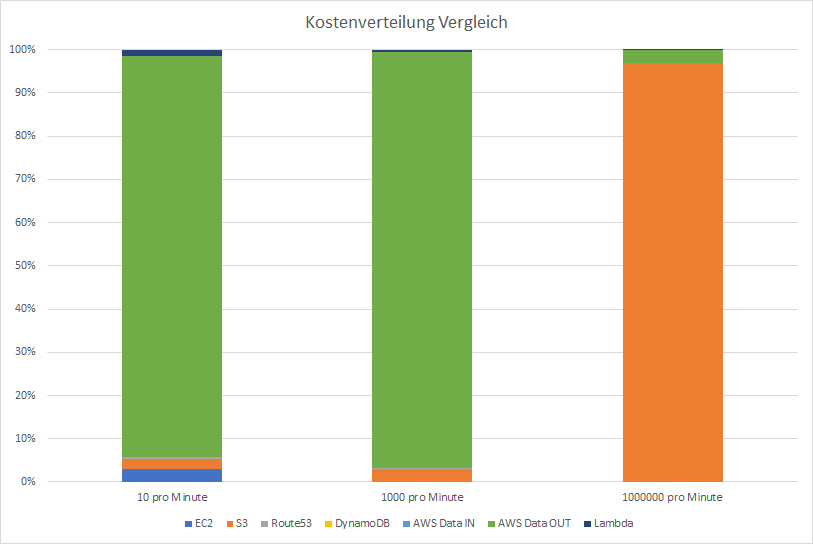
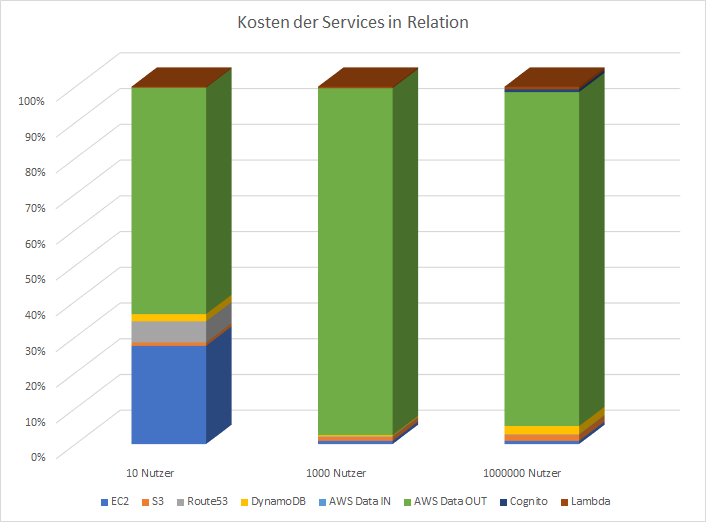
Update Docu

diff --git a/dokumentation/documentation.tex b/dokumentation/documentation.tex
@@ -97,15 +97,14 @@ Multimedia-Daten (Bilder, Audio, Video) integriert werden. Es muss dabei möglic
 sein, die Multimedia-Daten entweder herunterzuladen oder zu streamen.
 \item Die Anwendung muss horizontal skalierbar sein. (Begründung!)
 \end{enumerate}
-Zusätzlich haben wir eigene Projektanforderungen hinzugefügt:
-%todo vieleicht auch, dass es unsere Entwickler aufgaben sind. Umschreiben wieso, der Zweck wer, mehr soll
+Zusätzlich haben wir folgende eigene Projektanforderungen hinzugefügt:
 \begin{enumerate}
-\item Auslegung auf spätere Socketnutzung.
-\item Der Code liegt in einen öffentlichen Repo.
-\item Der Stack ist von jedem Deploybar. Keine statischen Variablen. Der Stack soll mit einen Befehl aufgebaut werden.
-\item Trennung von Model, View und Controller. 
-\item Die NodeJS Funktionen sollen möglichst parallel laufen, um wartende Funktionen zu vermeiden.
-\item Die EC2 Instanz speichert keine Dateien, sondern \dq schleust\dq\ sie nur durch.
+\item Die Anwendung soll auf spätere Socketnutzung ausgelegt sein.
+\item Der Code soll in einen öffentlichen Repository liegen.
+\item Der Stack ist von jedem Deploybar. Das Template des Stacks soll also nur mit variablen Namen arbeiten und der Stack soll mit einen Befehl aufgebaut werden.
+\item Der Code der Anwendung soll sauber in Model, View und Controller getrennt sein. 
+\item Die NodeJS Funktionen sollen möglichst parallel arbeiten.
+\item Der Up- und Download soll über Streams geschehen, um auf der Laufzeitumgebung keine Daten speichern zu müssen.
 \end{enumerate}
 
 \section{VirtualDesktop}
@@ -136,62 +135,25 @@ Da Desktopnamen in \textit{VirtualDesktop} global eindeutig sind, kann dieser De
 Nur dem \textit{Owner} ist es erlaubt den Desktop wieder auf privat zu setzen, auch \textit{Usern} mit Admin-Rechten für diesen Desktop ist dies nicht gestattet.
 
 \chapter{Der Weg in die Cloud}
-% todo klassiche web projekt beschreiben. probem mit max gleichzeitiger verbindungen. bild von vorlesung beschreiben. dran denken an wins. lieber kontrole abgeben mehr enwickeln. nodejs = geschätslogik
-(dadurch wird die skalierung schonmal besser)
-
-Es gibt verschiedene Wege, wie man eine Web-Applikation aufsetzt. Die ersten Schritte wird man meist auf einer lokalen Entwicklungsumgebung machen, die man auch zum späteren entwickeln braucht. Irgendwann wird man sich aber die Frage stellen, wo die spätere Infrastruktur laufen wird. \\
-Der Weg in die Cloud benötigt zu Beginn einen entscheidenden Schritt. Man muss sich für einen Cloudanbieter entscheiden. Es gibt verschiedenste Anbieter wie GoogleCloud von Google, AWS von Amazon oder Azure von Microsoft. \\
-Im Rahmen des Moduls CloudComputung an der HS-RM haben wir uns dazu entschlossen die Cloud Services von AWS - Amazon zu nutzen.
-\section{Warum geht man in die Cloud}
-asd
-\section{Anforderungen an die Skalierbarkeit}
 Unsere Projektanforderungen an die Architektur umfasst einen klassischen Aufbau eines Web Projektes mit folgenden Anforderungen. \\
 
 \begin{itemize}
-\item Eine Laufumgebung auf der NodeJS läuft.
+\item Eine Anwendungsumgebung, die die Geschäftslogik abbildet.
 \item Eine Datenbank, die auch mit vielen Zugriffen schnell bleibt.
 \item Einen Speicher, der die Daten von den Nutzern speichert.
 \item Alle Zugriffe müssen authentifiziert werden.
+\item Das System soll immer sicher sein.
 \item Skalierung soll jederzeit möglich sein, um beliebig viele Nutzer bedienen zu können.
+\item Die Kosten sollen möglichst gering sein.
 \end{itemize}
-Es wäre durchaus denkbar die ersten vier Punkte gut auf einer klassischen, nicht Cloudservice basierenden Serverumgebung umzusetzen. Aber spätestens bei der beliebigen Skalierung stößt man auf Probleme. 
+Es wäre durchaus denkbar die ersten fünf Punkte gut auf einer lokalen Serverumgebung umzusetzen. Spätestens aber bei der beliebigen Skalierung stößt man auf Probleme. 
 \\
-Die auf einer klassischen Serverumgebung einfach mögliche vertikale Skalierung stößt schnell auf ihre Grenzen. Früher oder später wird vermutlich die Datenbank in jedem System der Flaschenhals werden und diese dann horizontal zu skalieren ist meist mit großen strukturellen und/oder architektonischen Änderungen verbunden.
-
-\section{Vorteile Infrastruktur}
-%dieser satz eher am anfang. villeicht ganze kapitel.
-Eine Umsetzung in AWS bringt ein Umdenken mit sich. In AWS wird jeder Service in eigenen Teil gesplittet. Rechner, Speicher, Datenbank, Authentifizierung, Domainverwaltung sogar einzelne Funktionen liegen einzeln in AWS vor. Dadurch ist eine unabhängige Skalierung überhaupt möglich. \\
-%todo umschreiben wir müssen schon kümmern = mappen
-Um das Projekt umzusetzen brauchen wir uns dank der Cloudservices nicht um Dinge, wie den NodsJS Server, den Speicher, die Virtualisierung oder das Netzwerk kümmern. \\
-Auch um die Laufzeitumgebung und um das Betriebssystem brauchen wir uns nicht kümmern. Wir legen sie lediglich fest. Dank der Cloudservices von AWS können wir uns nach dem Aufsetzen und Verknüpfen aller unser genutzten Service ganz auf die Programmierung konzentrieren.
-\section{Vorteile Skalierung}
-%vermutlich kann weg
-Das Hauptproblem von Anwendungen, die erfolgreich von vielen Nutzern genutzt wird ist die Skalierung.
-\subsection{Skalierung Plattform / Laufzeitumgebung}
-%todo Leastic Beasntalk geht gerade auf klassische webprojekte ab. Alle alten webanwendungen könnte man dort abbilden. (PHP, java ..). Das ist der erste Punkt. Wenn man noch verweden möchte einfach das. mit zunehmen kenntnissen voll auf aws diensten umsteigen dann ressourcen auslagern etc
-Auf unserer Laufzeitumgebung läuft ein NodeJS Server. Dieser wird durch Elastic-Beanstalk automatisch skaliert. Die Rechenleistung also die CPU, der Arbeitsspeicher wie der interne genutzte Speicher wird dynamisch je nach Bedarf angepasst. \\
-Eine klassische Umsetzung auf einen Server kann man lediglich vertikal skalieren und den Arbeitsspeicher oder die CPU aufrüsten. 
-\subsection{Skalierung Speicher und Datenbank}
-Der Speicher wird bei AWS klassischerweise mit S3 umgesetzt. Der S3 Speicher hat eine Skalierung inkludiert. \\
-%todo umschreiben nicht sprechend. Typisch über SQL reden.
-Es gibt verschiedenste Datenbanktypen, die meisten sind nur schwer skalierbar. AWS bietet die DynamoDB an um Dokumente mit Schlüsselwerten zu speichern. DynamoDB skaliert ebenfalls automatisch. Die globalen DynamoDB Tabellen replizieren sich automatisch über mehrere AWS-Regionen \cite{AWSa}.\\
-%QUELLE DYNAMODB
-%https://aws.amazon.com/de/dynamodb/
-\subsection{Skalierung Netzwerk}
-Auch um den Datendurchsatz bei der Netzwerkübertragung  braucht man sich dank verteilter Rechenzentren, die sich je nach Nutzungsort verändern können nicht zu kümmern. Plant man einen internationalen Einsatz ist ein Einsatz von Amazon CloudFront / CDN erweiterbar \cite{AWSb}.%QUELLE CLOUDFRONT
-%https://aws.amazon.com/de/cloudfront/
-\section{Sicherheit}
-Anstatt sich händisch darum zu kümmern sein System aktuell bleibt, kann man bei Cloudservices auf die Expertise von Profis zurückgreifen. Updates und Sicherheitspatches werden automatisch eingespielt, über Firewall und Antiviren Programme braucht man sich keine Sorgen mehr machen. \\
-Außerdem nimmt AWS mit verschiedenen Services Sicherheitsimplementierungen ab. Cognito ermöglicht schnell und einfach eine Double Opt in Registrierung umzusetzen.
-\section{Kosten}
-%vom Monolith weg - hoch schieben man zahlt nur das was man verbraucht
-Die Skalierung klassischer Webprojekte läuft so, dass die Infrastruktur für die maximale Nutzung aufgebaut wird. Das bedeutet, dass bei hoher kurzzeitiger Nutzung Ressourcen aufgebaut werden, die dann kurz danach nicht mehr benötigt werden. Ein Rückbau wird selten gemacht und Ressourcen liegen brach.\\
-Dieses überpowern der Infrastruktur birgt vermeidbare Mehrkosten. AWS rechnet immer nur den aktuellen Verbrauch ab. Wird ein Server Nachts nicht genutzt, werden keine Kosten generiert. Alle zusätzlichen Kosten einer klassischen Infrastruktur wie Wartung, sind darin bereits inkludiert.
-\section{Was gibt es für Cloudanbieter}
-
-\section{CloudLockin}
-%todo CloudLockin gerade auf datenbank dynamoDB!
-%erster Abschnitt hierrein
+Die auf einer klassischen Serverumgebung einfach mögliche vertikale Skalierung stößt schnell auf ihre Grenzen. Früher oder später wird vermutlich die Datenbank in jedem System der Flaschenhals werden und diese dann horizontal zu skalieren ist meist mit großen strukturellen und/oder architektonischen Änderungen verbunden. Es gibt verschiedenste Datenbanktypen, die meist genutzten sind nur schwer skalierbar. Cloudanbieter bieten Datenbanken an, die automatisch skalieren und die sich automatisch über mehrere Regionen replizieren. Alleine diese Datenbankskalierung wäre mit sehr viel händischen Aufwand und Kosten verbunden. \\ 
+Anstatt sich händisch darum zu kümmern, dass sein System aktuell bleibt, kann man bei Cloudservices auf die Expertise vom Cloudanbieter zurückgreifen. Updates und Sicherheitspatches werden automatisch eingespielt. \\
+Die Skalierung klassischer Webprojekte läuft so, dass die Infrastruktur für die maximale Nutzung aufgebaut wird. Das bedeutet, dass bei hoher kurzzeitiger Nutzung Ressourcen aufgebaut werden, die dann kurz danach nicht mehr benötigt werden. Ein Rückbau wird selten gemacht und Ressourcen liegen brach. Dieses überpowern der Infrastruktur birgt vermeidbare Mehrkosten. Cloudanbieter rechnen immer nur den aktuellen Verbrauch ab. Wird ein Server Nachts nicht genutzt, werden keine Kosten generiert. Alle zusätzlichen Kosten einer klassischen Infrastruktur wie Wartung, sind darin bereits inkludiert. \\
+Das Problem einer klassischen Webanwendung ist der Monolith als Server, in dem alle Services enthalten sind. Skalierung in einer beliebigen Größe ist nur möglich, wenn alle Services getrennt voneinander skalierbar sind. Cloudanbieter bieten dann an diese einzelnen Services getrennt laufen zu lassen und zu skalieren. \\
+Es gibt verschiedene Cloudanbieter wie GoogleCloud von Google, Azure von Microsoft oder AWS von Amazon. Hat man sich für einen Anbieter entschieden bringt dies ein Problem mit sich den \textit{Cloud-Lock-In}. Der \textit{Cloud-Lock-In} beschreibt das festgefahrene Setup auf einen Cloudanbieter. Ein Umzug ist meist nur mit hohen Aufwand möglich. Außerdem gibt man mit dem Weg in die Cloud Kontrolle ab. Viele Parameter, werden vom Cloudanbieter gesteuert, die man nicht mehr in der Hand hat. \\
+Wir haben uns für unser Projekt für AWS von Amazon entschieden.
 
 \chapter{Architektur}
 % Clouformation ansprechen
@@ -273,7 +235,20 @@ Die ElasticBeanstalk Umgebung
 Dort werden zum Beispiel die Laufzeit und die Umgebungsvariablen über die ElasticBeanstalk Konfiguration festgelegt. Auch den Start Befehl beim hochfahren der Instanz kann man dort festlegen.\\
 ElasticBeanstalk legt neben den hier beschriebenen Services auch Services an, die nicht explizit konfiguriert werden, wie einen \textit{LoadBalancer}, \textit{CloudWatch} und verschiedenste Berechtigungen. Dies benötigt ElasticBeanstalk, um die automatische Skalierung überhaupt möglich zu machen. \\
 Die EC2 Instanz beinhaltet unsere NodeJS Applikation und stellt sowohl das Front- wie Backend. Mit einer API werden dort die Operationen auf den AWS-Services koordiniert und gesteuert. 
-%todo Configuration Template mit rein nehmen und beschreiben (nur einen Key zeigen)
+
+\begin{lstlisting}[xleftmargin=\parindent,numbers=left,numberstyle=\small,numbersep=8pt,frame=L,mathescape=true, basicstyle=\small, language=Java, lineskip={1.0pt}]
+ConfigurationElasticBS:
+        Type: AWS::ElasticBeanstalk::ConfigurationTemplate
+        Properties:
+            ApplicationName:
+                Ref: ElasticBS
+            Description: AWS ElasticBeanstalk VirtualDesktop Configuration
+            OptionSettings:
+            -
+                Namespace: aws:autoscaling:asg
+                OptionName: MinSize
+                Value: '1'
+\end{lstlisting}
 
 \section{Authentifizierungsservice Cognito}
 %Inhaltlich gut
@@ -605,129 +580,106 @@ bytes=x-y
 %QUELLE: Range,206 723
 %https://www.rfc-editor.org/rfc/rfc7233.txt 
 
-\chapter{Kosten - Aufwände}
+\chapter{Kosten}
 %umrechnen Requests auf den Nutzer. Maximalen Storage pro Nutzer enführen
 Um die etwaigen Kosten abzuschätzen haben wie den \textit{AWS-Gesamtbetriebskostenrechner} bedient. [QUELLE: KOSTENRECHNER] 
 %QUELLE KOSTENRECHNER
 %https://calculator.s3.amazonaws.com
-\section{Betriebskosten}
-%costs all graphik einbinden
+
 Zur Kalkulation der Betriebskosten betrachten wir die laufenden Monatskosten für die folgenden Szenarien:\\
 \begin{itemize}
-\item Es werden 10 Anfragen pro Minute gestellt und \textbf{438000} pro Monat.
-\item Es werden 1000 Anfragen pro Minute gestellt und \textbf{43800000} pro Monat.
-\item Es werden 1000000 Anfragen pro Minute gestellt und \textbf{43800000000} pro Monat.
+\item Die Anwendung wird von 10 Nutzern genutzt.
+\item Die Anwendung wird von 1000 Nutzern genutzt.
+\item Die Anwendung wird von 1000000 Nutzern genutzt.
 \end{itemize}
 
-Da die verschiedenen Funktionen unserer Anwendung verschiedene Kosten verursachen gehen wir davon aus, dass die Requests etwa gleich verteilt auf unsere verschiedenen Funktionen aufgegliedert sind wie Einloggen, Desktop wechseln, Bild hochladen, Datei hochladen usw. Dies würde bedeuten, dass die Hälfte der Requests \\
+Um die Kosten einer Anwendung in AWS schätzen zu können, ist eine detaillierte Analyse der einzelnen Funktionen der Anwendung nötig. Wir haben sowohl den Datendurchsatz, wie auch die benötigten Requests der einzelnen API Aufrufe betrachtet. Auch der benötigte Traffic der eigentlichen Anwendungsauslieferung und Lamba muss betrachtet werden.\\ 
+Ein Nutzer bedient in unseren Szenarien folgende Funktionen jeden Tag. Diese Daten werden danach auf ein Monat hochgerechnet. \\
+\textbf{Einen Nutzer pro Tag} ...
+\begin{enumerate}
+\item kann maximal 5GB in seinen Desktop speichern.
+\item logt sich 3 mal an Tag ein.
+\item lädt Dateien hoch wie:
+\begin{enumerate}
+\item 3 Bilder (wie jpeg, jpg, png...) 9MB
+\item 2 Textdateien (txt, docx, odt...) 2MB
+\item 3 Musik (mp3) 12MB
+\item 0,3 Videos (avi, mp4) 500MB
+\end{enumerate}
+\item erstellt oder löscht 1/6 Desktop
+\item switcht 6 Desktops
+\item setzt und löscht 1/2 Permissions
+\item setzt 1/18 Desktop public
+\end{enumerate}
+Damit haben wir folgende Aufrufe oder Traffic für \textbf{einen Nutzer pro Tag}
+\begin{enumerate}
+\item DynamoDB GET: 264.2
+\item DynamoDB SCAN: 38.33
+\item DynamoDB DELETE: 8.96
+\item DynamoDB PUT: 8.96
+\item S3 GET: 83
+\item S3 PUT: 8,3
+\item S3 DELETE: 8,3
+\item Lambda: 16,6
+\item Cognito: 1 MAU
+\item S3 DATA: 173 MB
+\item Traffic Service-AWS: 1 MB
+\item Traffic VirtualDesktop: 173 MB
+\item Route 53 Abfragen: 110
+\end{enumerate}
+Diese Daten wurden für die weitere Berechnung pro Monat herangezogen.
 Für die Berechnung wurde der AWS Simply Monthly Calculator Rechner bedient. [QUELLE: AWSRECHNER] Für Lambda wurde folgender Rechner genutzt. [QUELLE: LAMBDARECHNER]
 \\
-Wir setzen folgende Variablen fest:
-\begin{lstlisting}
-MINUTE-REQUESTS: Minuetliche Requests
-MONTH-REQUESTS: Totale monatliche Requests
-\end{lstlisting} 
-Damit würden sich dann folgende Parameter ergeben, die jeweils für die verschiedenen Szenarien in den \textit{AWS Simply Monthly Calculator} einzutragen sind.
-\begin{enumerate}
-	\item EC2 Instanz
-	\begin{enumerate}
-		\item Amazon EC2-Instances: 1/10 * MINUTE-REQUESTS
-		\item Typ: Linux für m1.small
-		\item EBS-Volumes: 1/10 * MINUTE-REQUESTS
-		\item EBS-Volumes-Speicher: 2GB Speicher
-		\item Ausgehende Datenübertragungen: 1/10 MINUTE-REQUESTS TB pro Monat
-		\item Eingehende Datenübertragungen: 1/10 MINUTE-REQUESTS TB pro Monat
-	\end{enumerate}
-	\item S3 Requests
-	\begin{enumerate}
-		\item Standard Storage: 10 * \textit{MINUTE-REQUESTS} in GB
-		\item PUT/COPY/POST/LIST Requests: 1/3 * \textit{MONTH-REQUESTS}
-		\item GET- und andere Anfragen: 1/3 * \textit{MONTH-REQUESTS}
-		\item Data Returned by S3 Select: 10 * \textit{MINUTE-REQUESTS}
-		\item Ausgehende Datenübertragungen: \textit{MONTH-REQUESTS} GB
-		\item Eingehende Datenübertragungen: \textit{MONTH-REQUESTS} GB
-	\end{enumerate}
-	\item Lambda Requests
-	\begin{enumerate}
-		\item Executian a Month: 1/5 * MONTH-REQUESTS
-		\item Memory Allocation in MB: 256
-		\item Duration in MS: 2000
-	\end{enumerate}
-	\item DynamoDB
-	\begin{enumerate}
-		\item Größe Datenvolumen: 1 GB
-		\item Elementgröße: 1 KB
-		\item Total number of items read per second: 1/60 * MINUTE-REQUESTS
-		\item Number of items written per second: 1/60 * MINUTE-REQUESTS
-	\end{enumerate}
-	\item Route53
-	\begin{enumerate}
-		\item Hostet Zones: 1
-		\item Standardabfragen: MONTH-REQUESTS
-	\end{enumerate}
-\end{enumerate}
-
-Mit diesen Parametern lassen sich folgende Kosten berechnen:
 
 \begin{table}[]
 \begin{tabular}{|l|l|l|l|l}
 \cline{1-4}
-          & \textbf{10 pro Minute} & \textbf{1000 pro Minute} & \textbf{1000000 pro Minute} &  \\ \cline{1-4}
-\textbf{EC2} & 4,18 USD & 8,86 USD & 52.003,66 USD &  \\ 
+          & \textbf{10 Nutzer} & \textbf{1000 Nutzer} & \textbf{1000000 Nutzer} &  \\ \cline{1-4}
+\textbf{EC2} & 4,18 USD & 8,86 USD & 5.203,66 USD &  \\ 
 \cline{1-4}
-\textbf{S3} & 3,34 USD & 344,20 USD &     230.416.764,76 USD &  \\ 
+\textbf{S3} & 0,14 USD & 11,06 USD &     9.936,76 USD &  \\ 
 \cline{1-4}
-\textbf{Route53} & 0,70 USD & 17,70 USD & 8.960,50 USD &  \\ 
+\textbf{Route53} & 0,90 USD & 2,10 USD & 882,50 USD &  \\ 
 \cline{1-4}
-\textbf{DynamoDB} & 0,00 USD & 0,31 USD & 31,00 USD &  \\ 
+\textbf{DynamoDB} & 0,31 USD & 3,05 USD & 13.349,48 USD &  \\ 
 \cline{1-4}
 \textbf{AWS Data IN} & 0,00 USD & 0,00 USD & 0,00 USD      &  \\ 
 \cline{1-4}
-\textbf{AWS Data OUT} & 131,49 USD & 11.053,11 USD & 7.366.451,11 USD &  \\
+\textbf{AWS Data OUT} & 9,63 USD & 969,11 USD & 543.891,11 USD &  \\
 \cline{1-4}
-\textbf{LAMBDA} & 2,03 USD & 74,76 USD & 74.766,60 USD &  \\ \cline{1-4}
+\textbf{Cognito} & 0,00 USD & 0,00 USD & 4.415,00 USD &  \\ \cline{1-4}
+\textbf{LAMBDA} & 0,04 USD & 4,39 USD & 4.392,00 USD &  \\ \cline{1-4}
+\textbf{Gesamt} & \textbf{15,20 USD} & \textbf{998,57 USD} & \textbf{582.070,51 USD} &  \\ \cline{1-4}
+\textbf{Kosten pro Nutzer} & 1,52 USD & 0,99 USD & 0,58 USD &  \\ \cline{1-4}
 \end{tabular}
 \end{table}
 
 \begin{enumerate}
-	\item 10 Anfragen pro Minute: 141,74 US-Dollar / 124,86 Euro (Stand 23.01.2019) pro Monat
-	\item 1000 Anfragen pro Minute: 11.498,94 US-Dollar / 10129,30 Euro (Stand 23.01.2019) pro Monat
-	\item 1000000 Anfragen pro Minute: 237.918.977,63 US-Dollar / 209580448,20 Euro (Stand 23.01.2019) pro Monat 
+	\item 10 Nutzer pro Monat: 15,20 US-Dollar / 13,30 Euro (Stand 23.01.2019) pro Monat
+	\item 1000 Nutzer pro Monat: 998,57 US-Dollar / 873,75 Euro (Stand 23.01.2019) pro Monat
+	\item 1000000 Nutzer pro Monat: 582.070,51 US-Dollar / 509.311,70 Euro (Stand 23.01.2019) pro Monat 
 \end{enumerate}
 
-\begin{figure}[h]
+\begin{figure}[h!]
 \centering
-\includegraphics[scale=0.81]{costs-overview.png}
-\caption{Kosten für 1000 Requests pro Minute}
+\includegraphics[scale=1]{costs-overview.png}
+\caption{Kosten der Service im Vergleich}
 \end{figure}
 
-%@TODO: Grafiken raussuchen zu Kosten
-%\begin{figure}[h]
-%\centering
-%\includegraphics[scale=1]{costs-10.png}
-%\caption{Kosten für 10 Requests pro Minute}
-%\end{figure}
-%\begin{figure}[h]
-%\centering
-%\includegraphics[scale=1]{costs-1000.png}
-%\caption{Kosten für 1000 Requests pro Minute}
-%\end{figure}
-%\begin{figure}[h]
-%\centering
-%\includegraphics[scale=1]{costs-1000000.png}
-%\caption{Kosten für 1000000 Requests pro Minute}
-%\end{figure}
+\begin{figure}[h!]
+\centering
+\includegraphics[scale=0.75]{million-costs.png}
+\caption{Kosten der Services für 1 Millionen Nutzer}
+\end{figure}
 
-\subsection{Bewertung}
-Wie man erkennen kann, ist aus Kostengründen bei einer sehr großen Filesharing Plattform (> 10.000 Aufrufe pro Minute) von unserer Umsetzung abzuraten. Die Kosten für den S3 Service wären untragbar. Denkbar wäre hier, wie später im Ausblick erwähnt, eine Umsetzung in \emph{Amazon Glacier.}\\
-Interessanterweise ist die DynamoDB sehr \emph{günstig}, da die meisten Anfragen in einen freien Kontingent laufen und unsere Anfragen an die Datenbank sehr klein sind (<1KB). \\
-Das verlagern des \textit{Speicherplatzproblems} von der EC2 Instanz nach S3 macht sich hier deutlich. Anstatt, dass die Kosten bei den EC2 Instanzen stark steigen, scheinen sie exponentiell im S3 Service zu steigen. Dies zeigt, dass wir für unsere Anwendung versucht haben möglichst viel aus der EC2 Instanz auszulagern. \\
-Dank unseren schlanken Lambda Service, läuft dieser nur knapp 2 Sekunden und verbraucht <256Mbyte Arbeitsspeicher. Dadurch bleiben die Kosten überschaubar. Es ist dennoch interessant, dass sie bereits ab 1000 Aufrufen pro Minute die Kosten für die EC2 Instanzen übersteigen. 
+\section{Bewertung}
+Interessant an der Kostenrechnung ist sowohl die Entwicklung der einzelnen Services im Vergleich, wie auch die Entwicklung der Kosten pro Nutzer. So Erkennt man, dass in allen Fällen die AWS Data OUT, also die Kosten die AWS veranschlagt um Daten aus der AWS hinaus zu transportieren in allen Szenarien mit Abstand die höchsten sind. \\
+Weitaus interessanter ist die Entwicklung der Kosten pro Nutzer. Auch wenn der Kostenbetrag am Ende sehr hoch klingt, wäre er bereits ab einen Preis pro Nutzer von 0,60 USD gedeckt. Unser Dienst wäre dementsprechend schnell rentabel.
 
 
-%10 = https://calculator.s3.amazonaws.com/index.html?lng=de_DE#key=calc-2F0F41AC-C39D-4904-B349-2E27EC03B134&r=FRA
-%1000 = https://calculator.s3.amazonaws.com/index.html?lng=de_DE#key=calc-D5DAB655-81D7-4FD6-B3D3-449FBD41FFC5&r=FRA
-%1000000 = https://calculator.s3.amazonaws.com/index.html?lng=de_DE#key=calc-77814ED1-00F9-4058-8401-E0D1D464D215&r=FRA
+%10 = https://calculator.s3.amazonaws.com/index.html?lng=de_DE#key=calc-8CABA020-322B-4A90-9C2A-32D0DAA9BF27&r=FRA
+%1000 = https://calculator.s3.amazonaws.com/index.html?lng=de_DE#key=calc-3DA5EE1E-4F75-498F-8036-433A14F2C7C5&r=FRA
+%1000000 = https://calculator.s3.amazonaws.com/index.html?lng=de_DE#key=calc-522435CB-583B-4AEE-9FDD-E90FFB3BED47&r=FRA
 
 
 %QUELLE LAMBDARECHNER
@@ -745,7 +697,7 @@ Folgende Punkte bieten Ausbaupotential:
 \item Gerade bei der Kostenoptimierung wäre ein direkter Zugriff auf die S3 Daten von Vorteil. Wie man in unserer Übersicht der Betriebskosten sieht ist dieses \emph{durchschleusen} ein großer Kostenfaktor. AWS bietet an mit speziellen \glqq Whitelist\grqq  Cookies Nutzer direkt auf die S3 Daten zugreifen zu lassen, auch bei Streams.
 \item Ein weitere Idee die Kosten zu verringern, wäre die Nutzerdaten auf keinen S3-Bucket zu lagern sondern auf den AWS-Glacier. Dieser verspricht geringere Kosten bei vielen Datenmengen.
 \item Auch das verlagern des Thumbnailservices in die ständig laufenden EC2 Instanzen würden die Kosten für den Lambda Service einsparen.
-\item Das Setup Script nimmt zur Zeit Parameter entgegen, diese können auf einem unix system mit zum beispiel dem komandozeilenbefehl "top" von anderen Nutzern eingesehen werden, da die Parameter die AWS credials beinhalten, sollte das script so angepasst werden das diese aus der credials datei von aws ausgelessen werden (wie auch die aws-cli) bwziehungsweise die credials innerhalb der anwendung vom benutzer abgefragt werden.
+\item Das Setup Script nimmt zur Zeit Parameter entgegen, diese können auf einem unix system mit zum Beispiel dem Kommandozelenprogramm "top" von anderen Nutzern eingesehen werden. Da die Parameter die AWS Credials beinhalten, sollte das Script so angepasst werden, dass diese aus der Credials Datei von AWS ausgelesen werden (wie auch die aws-cli) beziehungsweiße die Credials innerhalb der Anwendung vom Benutzer abgefragt werden.
 \end{itemize}
 
 
